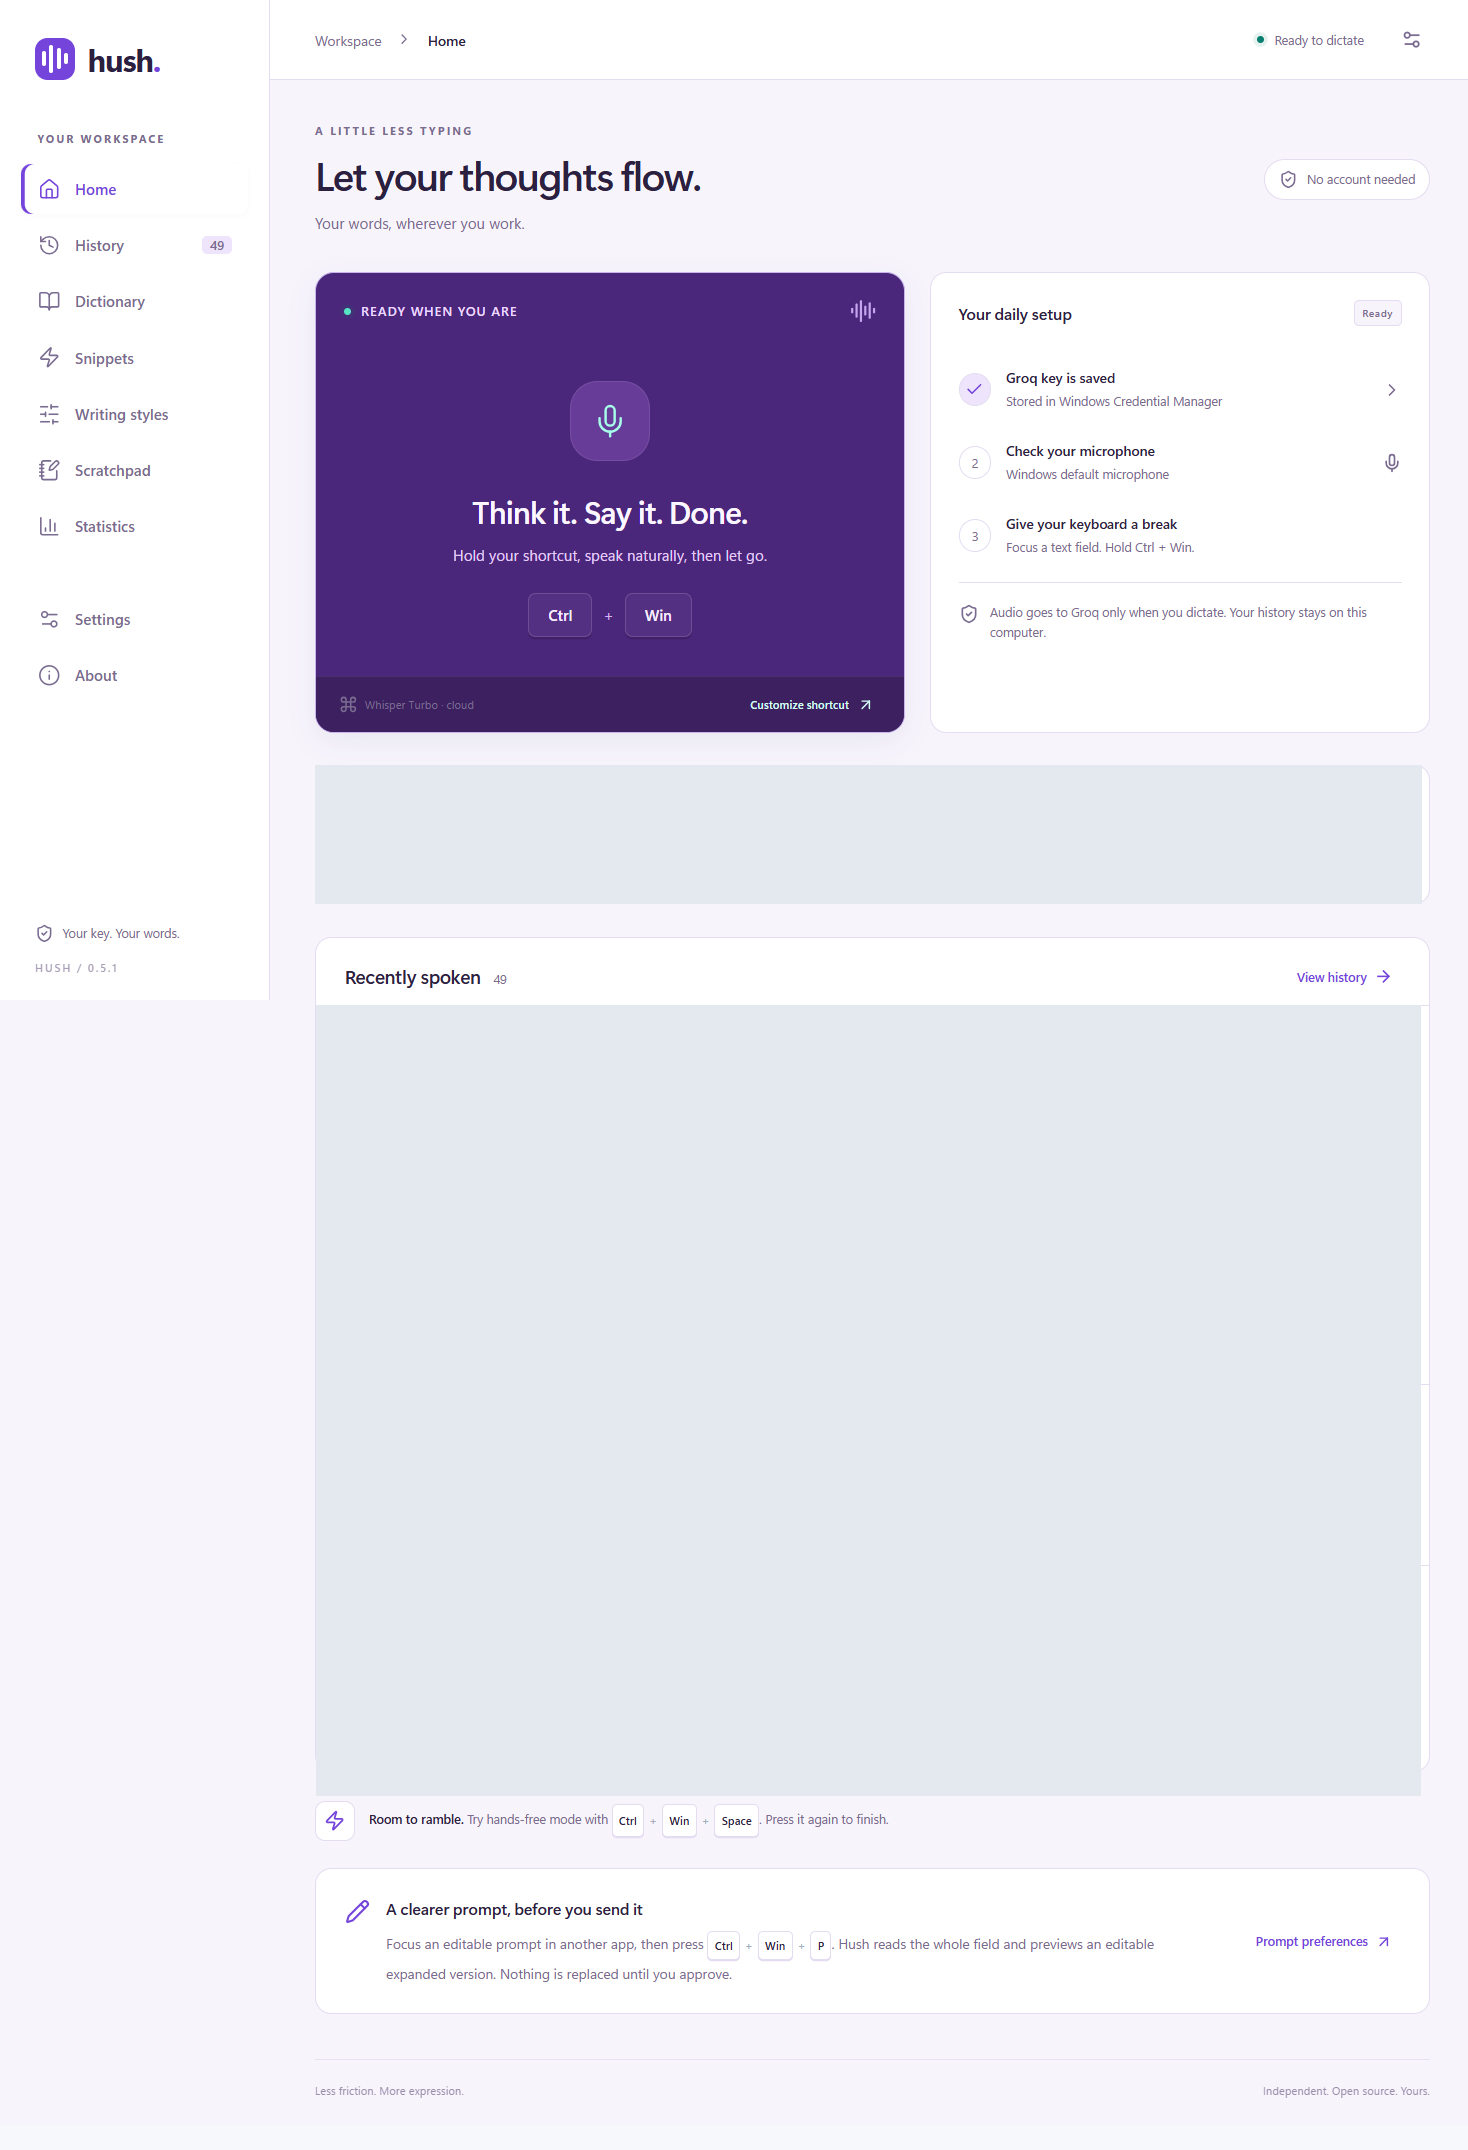
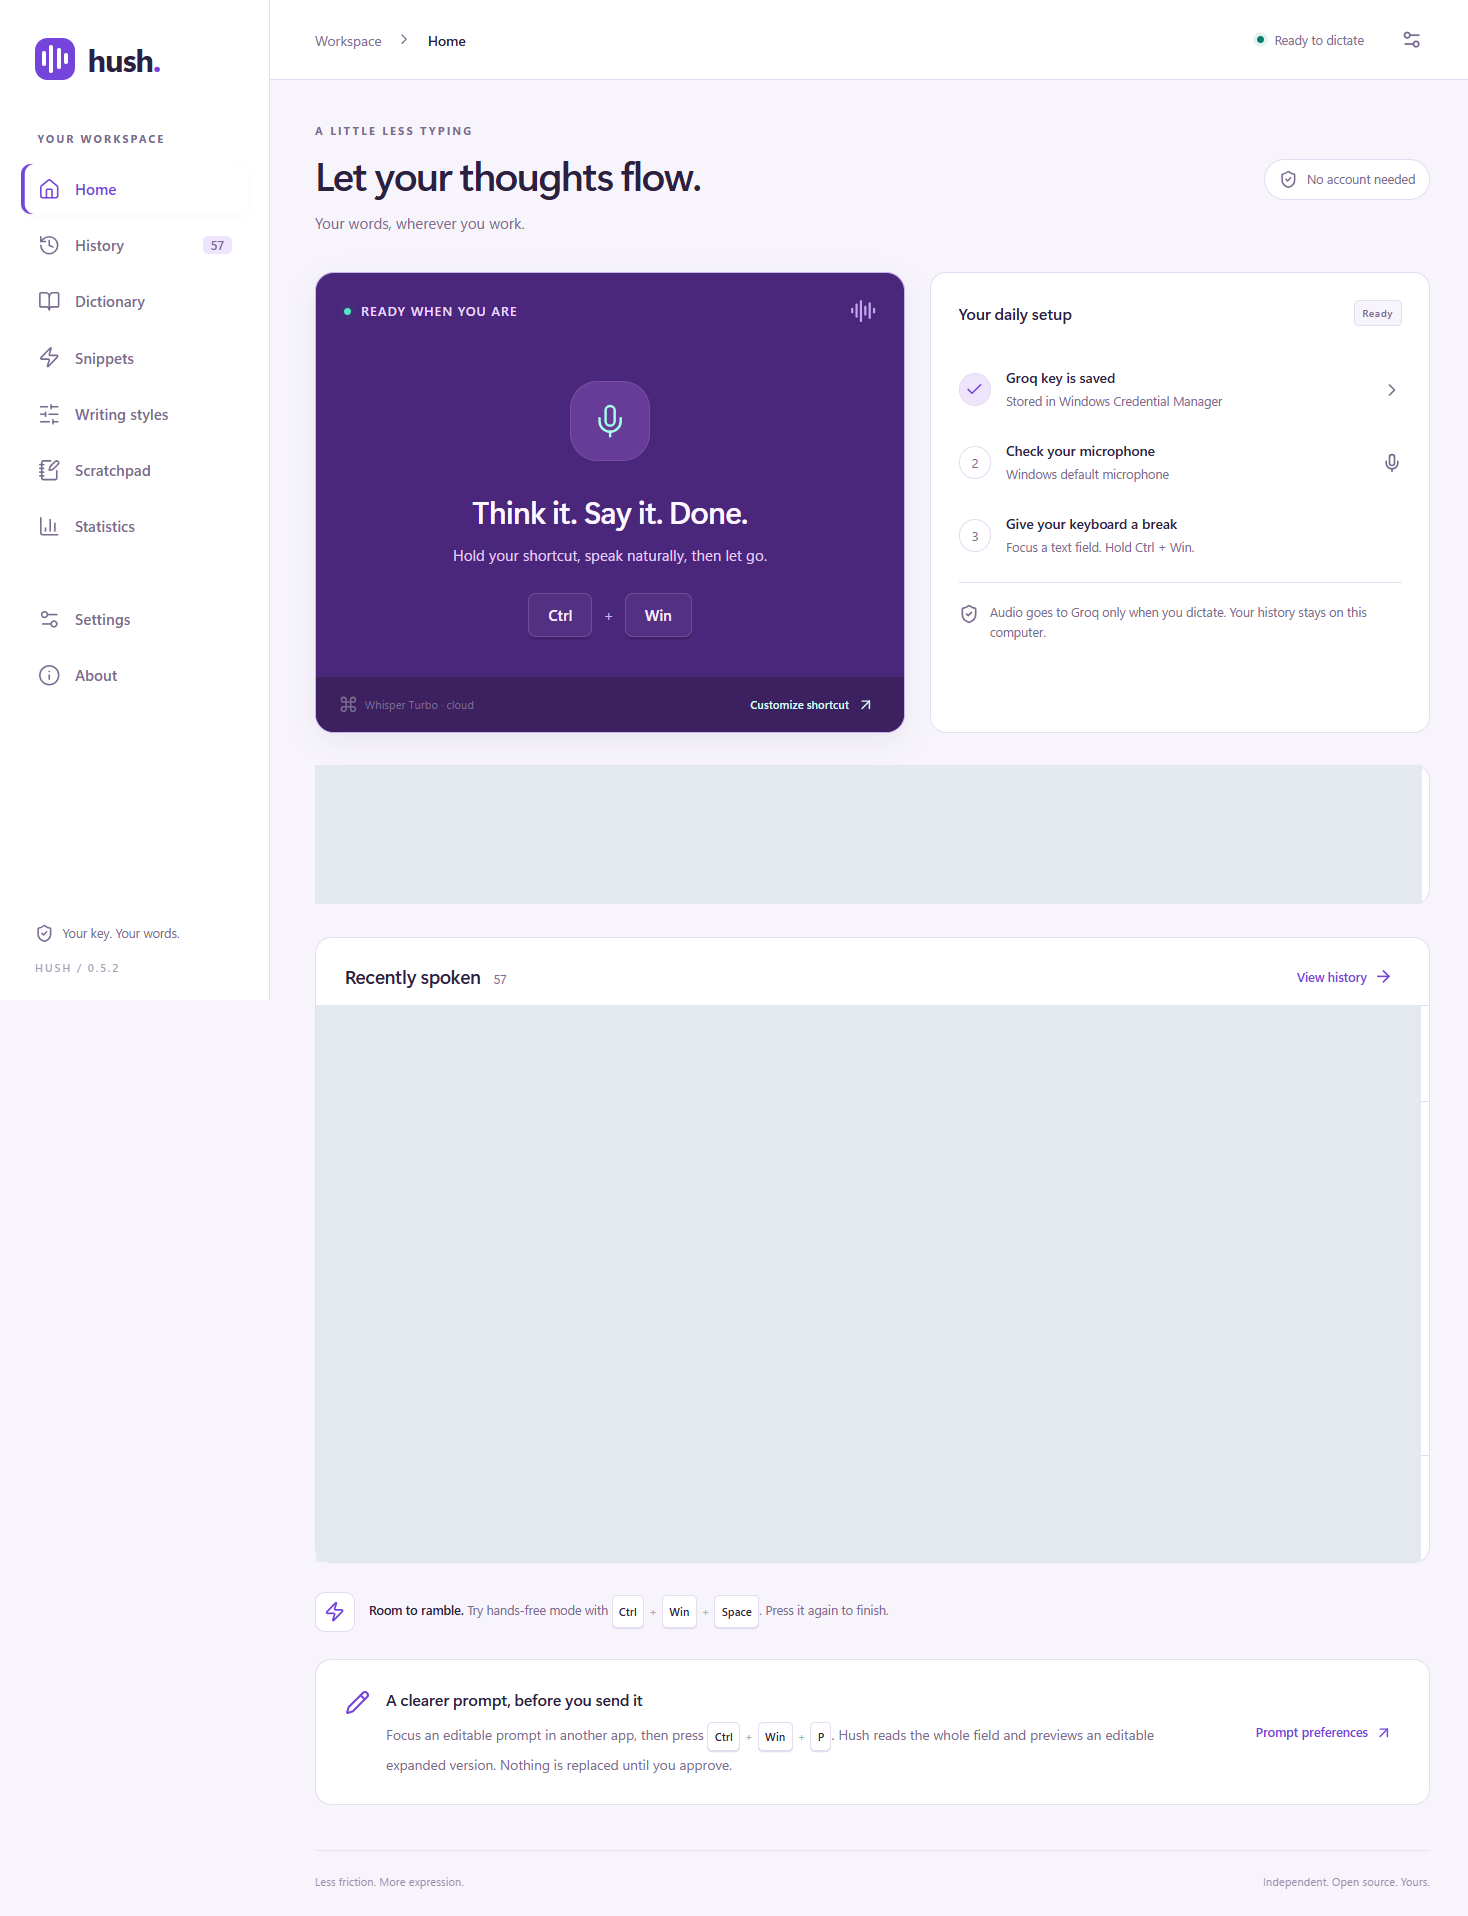
Record verified browser reflow delivery and 0.5.2 packaging [skip ci]

diff --git a/docs/QA.md b/docs/QA.md
@@ -286,3 +286,11 @@ The optimized 0.5.1 app passed real IPC startup, microphone test cancellation/no
 Per-user installer installation, background launch, dependency notices, clean uninstall, retained profile and preservation of unrelated legacy Hush registration/shortcuts passed. Installer and portable ZIP were generated. [Installer report](verification/installer-test-0.5.1.json), [sizes/checksums](verification/artifacts-0.5.1.json). Interactive wizard and in-place upgrade remain unverified.
 
 Hosted Windows CI passed for implementation commit `a8004ce`, including frontend/browser/Rust checks, real offline CPU recognition, installer/portable packaging and artifact upload. [Run](https://github.com/chahatesh/Hushline/actions/runs/40093538579), [step results](verification/ci-0.5.1.json). No public Release is created while full live microphone-to-Groq-to-target and prompt acceptance remain incomplete.
+
+### 0.5.2 executed verification
+
+**114 Rust tests**, **10 frontend tests**, formatting, strict Clippy, type checking and production build passed. The old unit and actual browser reflow tests failed before the fix. After initial Windows foreground refusals, the final real Chrome run passed **all six cases**: stable, moving/resizing, and changed-field scenarios for textarea and pre-wrap contenteditable. Complete multiline fixture text arrived exactly once; the other field stayed unchanged. [Before-fix failure](verification/browser-reflow-before-0.5.2.json), [final browser result](verification/browser-paste-0.5.2.json), [component report](verification/update-0.5.2.json). The final reflow fixture uses a transform and height change, avoiding DOM/identity replacement. Earlier foreground refusals are test-environment limits and are not counted as passing live checks.
+
+The optimized 0.5.2 executable passed native IPC, microphone cancellation and normal silent Stop without upload, preferences/privacy/dictionary/backup checks, and dashboard close/tray/reopen. Its existing real key and preferences/history were preserved. [Desktop report](verification/desktop-smoke-0.5.2.json). Per-user install/background launch/uninstall and retained profile/unrelated registration checks passed; [installer results](verification/installer-test-0.5.2.json). Installer and portable packages were generated; [sizes/checksums](verification/artifacts-0.5.2.json).
+
+Hosted Windows CI passed for implementation commit `26790a4`, including frontend/browser checks, Rust formatting/Clippy/tests, real offline CPU recognition and installer/portable packaging: [run](https://github.com/chahatesh/Hushline/actions/runs/40121215497), [step results](verification/ci-0.5.2.json). The live microphone-to-Groq-to-target acceptance protocol and prompt editing acceptance remain incomplete, so no public Release is published.

diff --git a/docs/FEATURES.md b/docs/FEATURES.md
@@ -30,6 +30,7 @@ Status describes 0.5.2, not a promise of commercial equivalence. Versioned secti
 | Explicit numbered lists | Implemented | Tested spoken numbered-list commands across Casual/Standard/Formal, sequential numeric items through 15, multi-sentence items and surrounding prose. Literal mode preserves recognition. Ambiguous cues remain conservative. |
 | General dates, times and number normalization | Partially Implemented | No universal normalization engine; optional AI output is not counted as verified general grammar. |
 | Casual/Standard/Formal writing and advanced exact words | Partially Implemented | Independent style/AI choices and migration pass UI/unit checks. Local rules are English and conservative; stronger Formal rewriting requires AI. Full live writing quality/meaning preservation remains unverified. |
+| Dictation through text-box layout changes | Partially Implemented | Screen-coordinate failure reproduced in a real Chrome field before the fix; new collapsed-selection and same-field/input regressions pass. All six real Chrome stable/reflow/changed-field cases pass after the fix; full speech-to-target acceptance remains open. |
 | Native accessibility protection and target/caret identity | Partially Implemented | Fail-closed UIA checks and equality tests exist. Interactive test could not acquire foreground focus in this execution environment. |
 | Password and read-only blocking | Partially Implemented | Native checks exist; the foreign-process Edit fixture verifies password/read-only rejection, while full live application compatibility remains pending. |
 | Unicode system-wide insertion | Partially Implemented | Compiles; actual delivery into Notepad, browsers, Office, chat apps, and editors remains unverified. |
